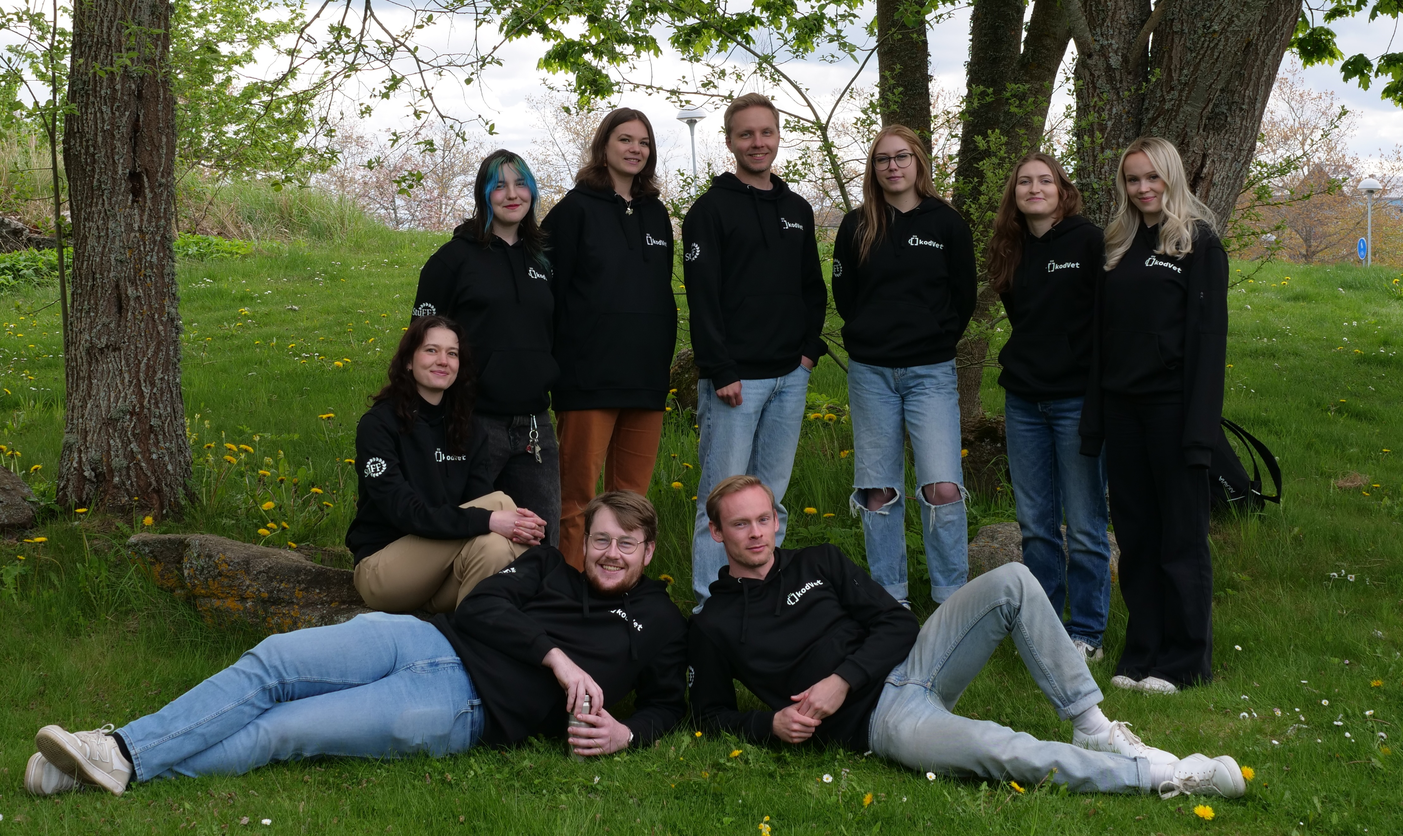
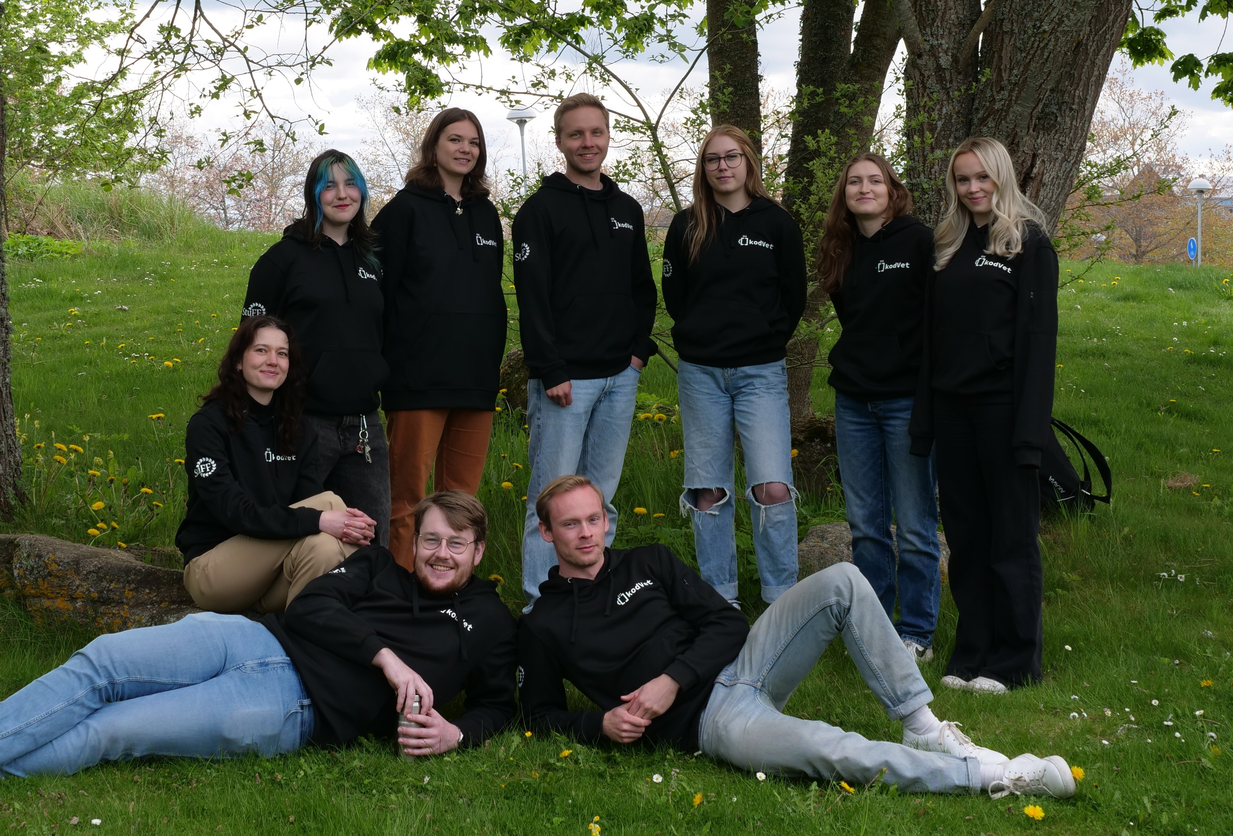
fixed hero pic. did a whole lot of media. removed old pictures. some things dissapeared pls help

diff --git a/src/components/Hero.svelte b/src/components/Hero.svelte
@@ -32,17 +32,17 @@
 		list-style: none;
 		text-decoration: none;
 		font-family: 'Source Code Pro', monospace;
+		overflow: hidden;
 	}
 	.hero_background {
 		display: flex;
 		flex-direction: column;
 		align-items: center;
 		justify-content: center;
-		height: 100vh;
+		height: 99ch;
 		user-select: none;
-		height: 100vh;
 		width: 100%;
-		background-image: linear-gradient(to bottom, rgba(12, 12, 12, 0.2) 40%, var(--bg-color)), url(/images/kodVet-24-25.jpeg);
+		background-image: linear-gradient(to bottom, rgba(12, 12, 12, 0.2) 40%, var(--bg-color)), url(/images/kodVet-24-25.JPG);
 		background-size: cover;
 		position: relative;
 		display: flex;
@@ -109,23 +109,14 @@
 		font-weight: bold;
 		unicode-bidi: isolate;
 	}
-	@media (max-width: 1000px) {
-		.text-box h3 {
-			max-width: 90%;
-			text-align: center;
-			overflow-wrap: break-word;
-			margin: 20px auto;
-			white-space: normal;
-		}
-	}
 
 	:global(.hero_logga.clicked) {
 		background: center/cover no-repeat url('/images/kogvet.jpeg');
 	}
 
 	.card {
-		width: min(250px, 25vw);
-		height: min(250px, 25vw);
+		width: min(200px, 25vw);
+		height: min(200px, 25vw);
 		margin: 1rem auto;
 		perspective: 1000px;
 		cursor: grab;
@@ -167,5 +158,25 @@
 		height: 100%;
 		object-fit: cover;
 		border-radius: 0.5rem;
+	}
+	@media (max-width: 600px) {
+		.hero_background {
+			height: 35ch;
+			width: 100%;
+			background-position: center;
+		}
+		h1 {
+			font-size: 2px;
+		}
+		.text-box {
+			font-size: 6px;
+		}
+		.card {
+			width: min(100px, 25vw);
+			height: min(100px, 25vw);
+			margin: 1rem auto;
+			perspective: 1000px;
+			cursor: grab;
+		}
 	}
 </style>

diff --git a/src/components/Contact.svelte b/src/components/Contact.svelte
@@ -26,6 +26,13 @@
 </section>
 
 <style>
+	* {
+		box-sizing: border-box;
+		list-style: none;
+		text-decoration: none;
+		font-family: 'Source Code Pro', monospace;
+		overflow: hidden;
+	}
 	.box-wrapper {
 		display: flex;
 		justify-content: center;
@@ -108,10 +115,62 @@
 	@media (max-width: 600px) {
 		.box-wrapper {
 			flex-direction: column;
-			scroll-margin-top: 150px;
+			scroll-margin-top: 100px;
+			min-height: fit-content;
+			padding: 10px;
 		}
-		.socialIcons {
-			max-width: fit-content;
+
+		.socialIcons a {
+			padding: 10px;
+			margin: 5px;
+			border-radius: 50%;
+			font-size: 20px;
+		}
+		.ruta1 {
+			padding: 10px;
+		}
+		.info h1 {
+			font-size: 14px;
+		}
+		.info p {
+			font-size: 12px;
+		}
+		.ruta2 {
+			width: 100%;
+			height: 200px;
+			background-color: var(--kodvet-blå);
+			border-radius: 25px;
+			padding: 10px;
+			color: black;
+			align-items: center;
+			justify-content: space-between;
+			display: flex;
+			flex-direction: column;
+			text-align: left;
+		}
+
+		.contact-btn {
+			margin: 8px;
+			display: block;
+			background-color: #36f8fc;
+			color: black;
+			font-size: 12px;
+			padding: 15px;
+			border-radius: 10px;
+			text-decoration: none;
+			background-color: 0.3s ease;
+			transform: 0.3s ease;
+			width: max-content;
+		}
+		.kontakt-text h1 {
+			font-size: 14px;
+		}
+		.kontakt-text p1 {
+			font-size: 10px;
+		}
+		.kontakt-text {
+			padding-left: 10px;
+			padding-right: 10px;
 		}
 	}
 </style>

diff --git a/src/components/Omoss.svelte b/src/components/Omoss.svelte
@@ -98,6 +98,7 @@
 		list-style: none;
 		text-decoration: none;
 		font-family: 'Source Code Pro', monospace;
+		overflow: hidden;
 	}
 	.aboutKodvet {
 		display: flex;
@@ -133,7 +134,6 @@
 		display: flex;
 		justify-content: center;
 		align-items: center;
-		margin-right: 100px;
 		width: 70%;
 		top: 0;
 	}
@@ -238,11 +238,19 @@
 			margin: 0px;
 			margin-bottom: 30px;
 		}
-
-		.about-kodvet-img {
-			align-items: center;
-			justify-content: center;
-			margin: 0px;
+		.about-text p {
+			font-size: x-small;
+		}
+		.about-text h5 {
+			font-size: 16px;
+		}
+		.mySlides img {
+			height: 250px;
+		}
+		.dot {
+			height: 8px;
+			width: 8px;
+			margin: 0 2px;
 		}
 	}
 </style>

diff --git a/src/components/Projekt.svelte b/src/components/Projekt.svelte
@@ -114,6 +114,7 @@
 		list-style: none;
 		text-decoration: none;
 		font-family: 'Source Code Pro', monospace;
+		overflow: hidden;
 	}
 	.projekt {
 		position: center;
@@ -290,5 +291,32 @@
 	}
 	.kodvet_project_wrapper {
 		position: relative;
+	}
+	@media (max-width: 600px) {
+		.box img {
+			height: 200px;
+		}
+		.hidden-content {
+			display: none;
+			font-size: 10px;
+			color: #000000;
+			margin-top: 10px;
+		}
+		.prev,
+		.next {
+			font-size: 20px;
+		}
+		.center-text h1 {
+			font-size: 14px;
+		}
+		.center-text p {
+			font-size: 12px;
+		}
+		.projekt-info p {
+			font-size: 10px;
+		}
+		.projekt-info h4 {
+			font-size: 14px;
+		}
 	}
 </style>

diff --git a/src/components/Footer.svelte b/src/components/Footer.svelte
@@ -36,6 +36,7 @@
 		list-style: none;
 		text-decoration: none;
 		font-family: 'Source Code Pro', monospace;
+		overflow: hidden;
 	}
 	footer {
 		flex: 1 1 50px;
@@ -145,6 +146,16 @@
 	@media (max-width: 600px) {
 		.footerContainer {
 			max-width: 100%;
+			padding: 10px;
+		}
+		.socialIcons .loggafoot {
+			text-decoration: none;
+			padding: 10px;
+			background-color: #fff;
+			margin: 5px;
+			border-radius: 50%;
+			font-size: 15px;
+			color: #000;
 		}
 	}
 </style>
